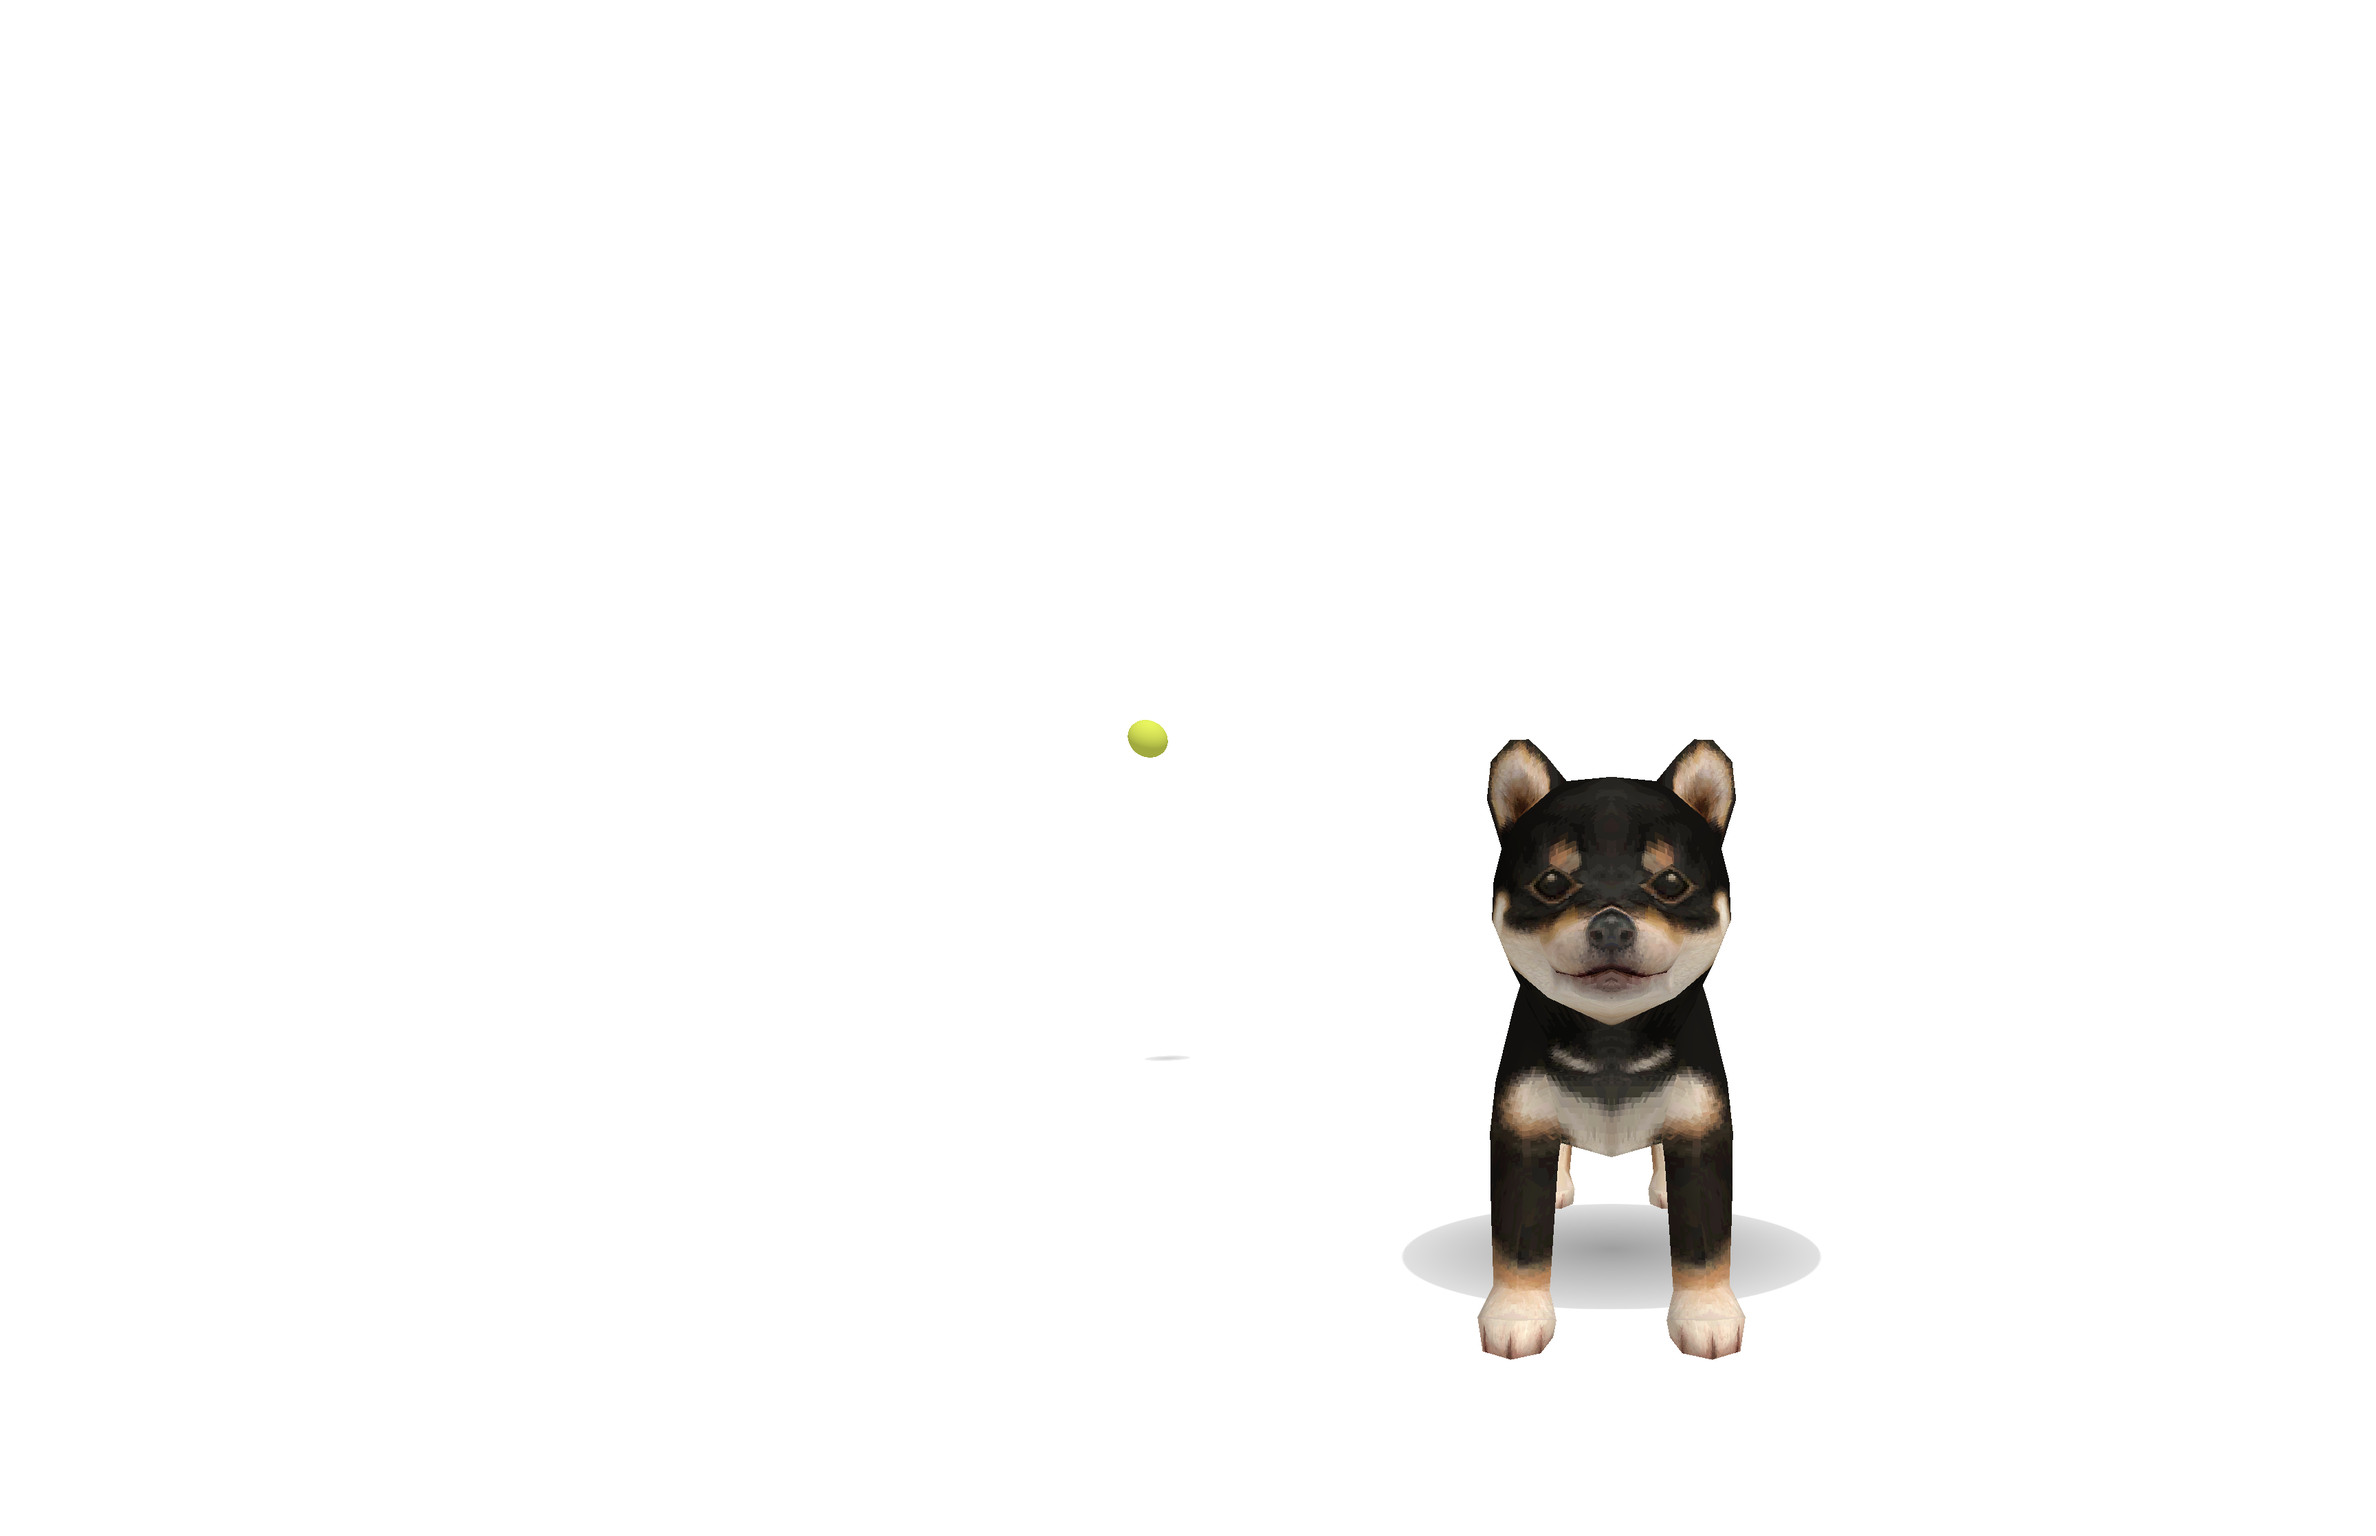
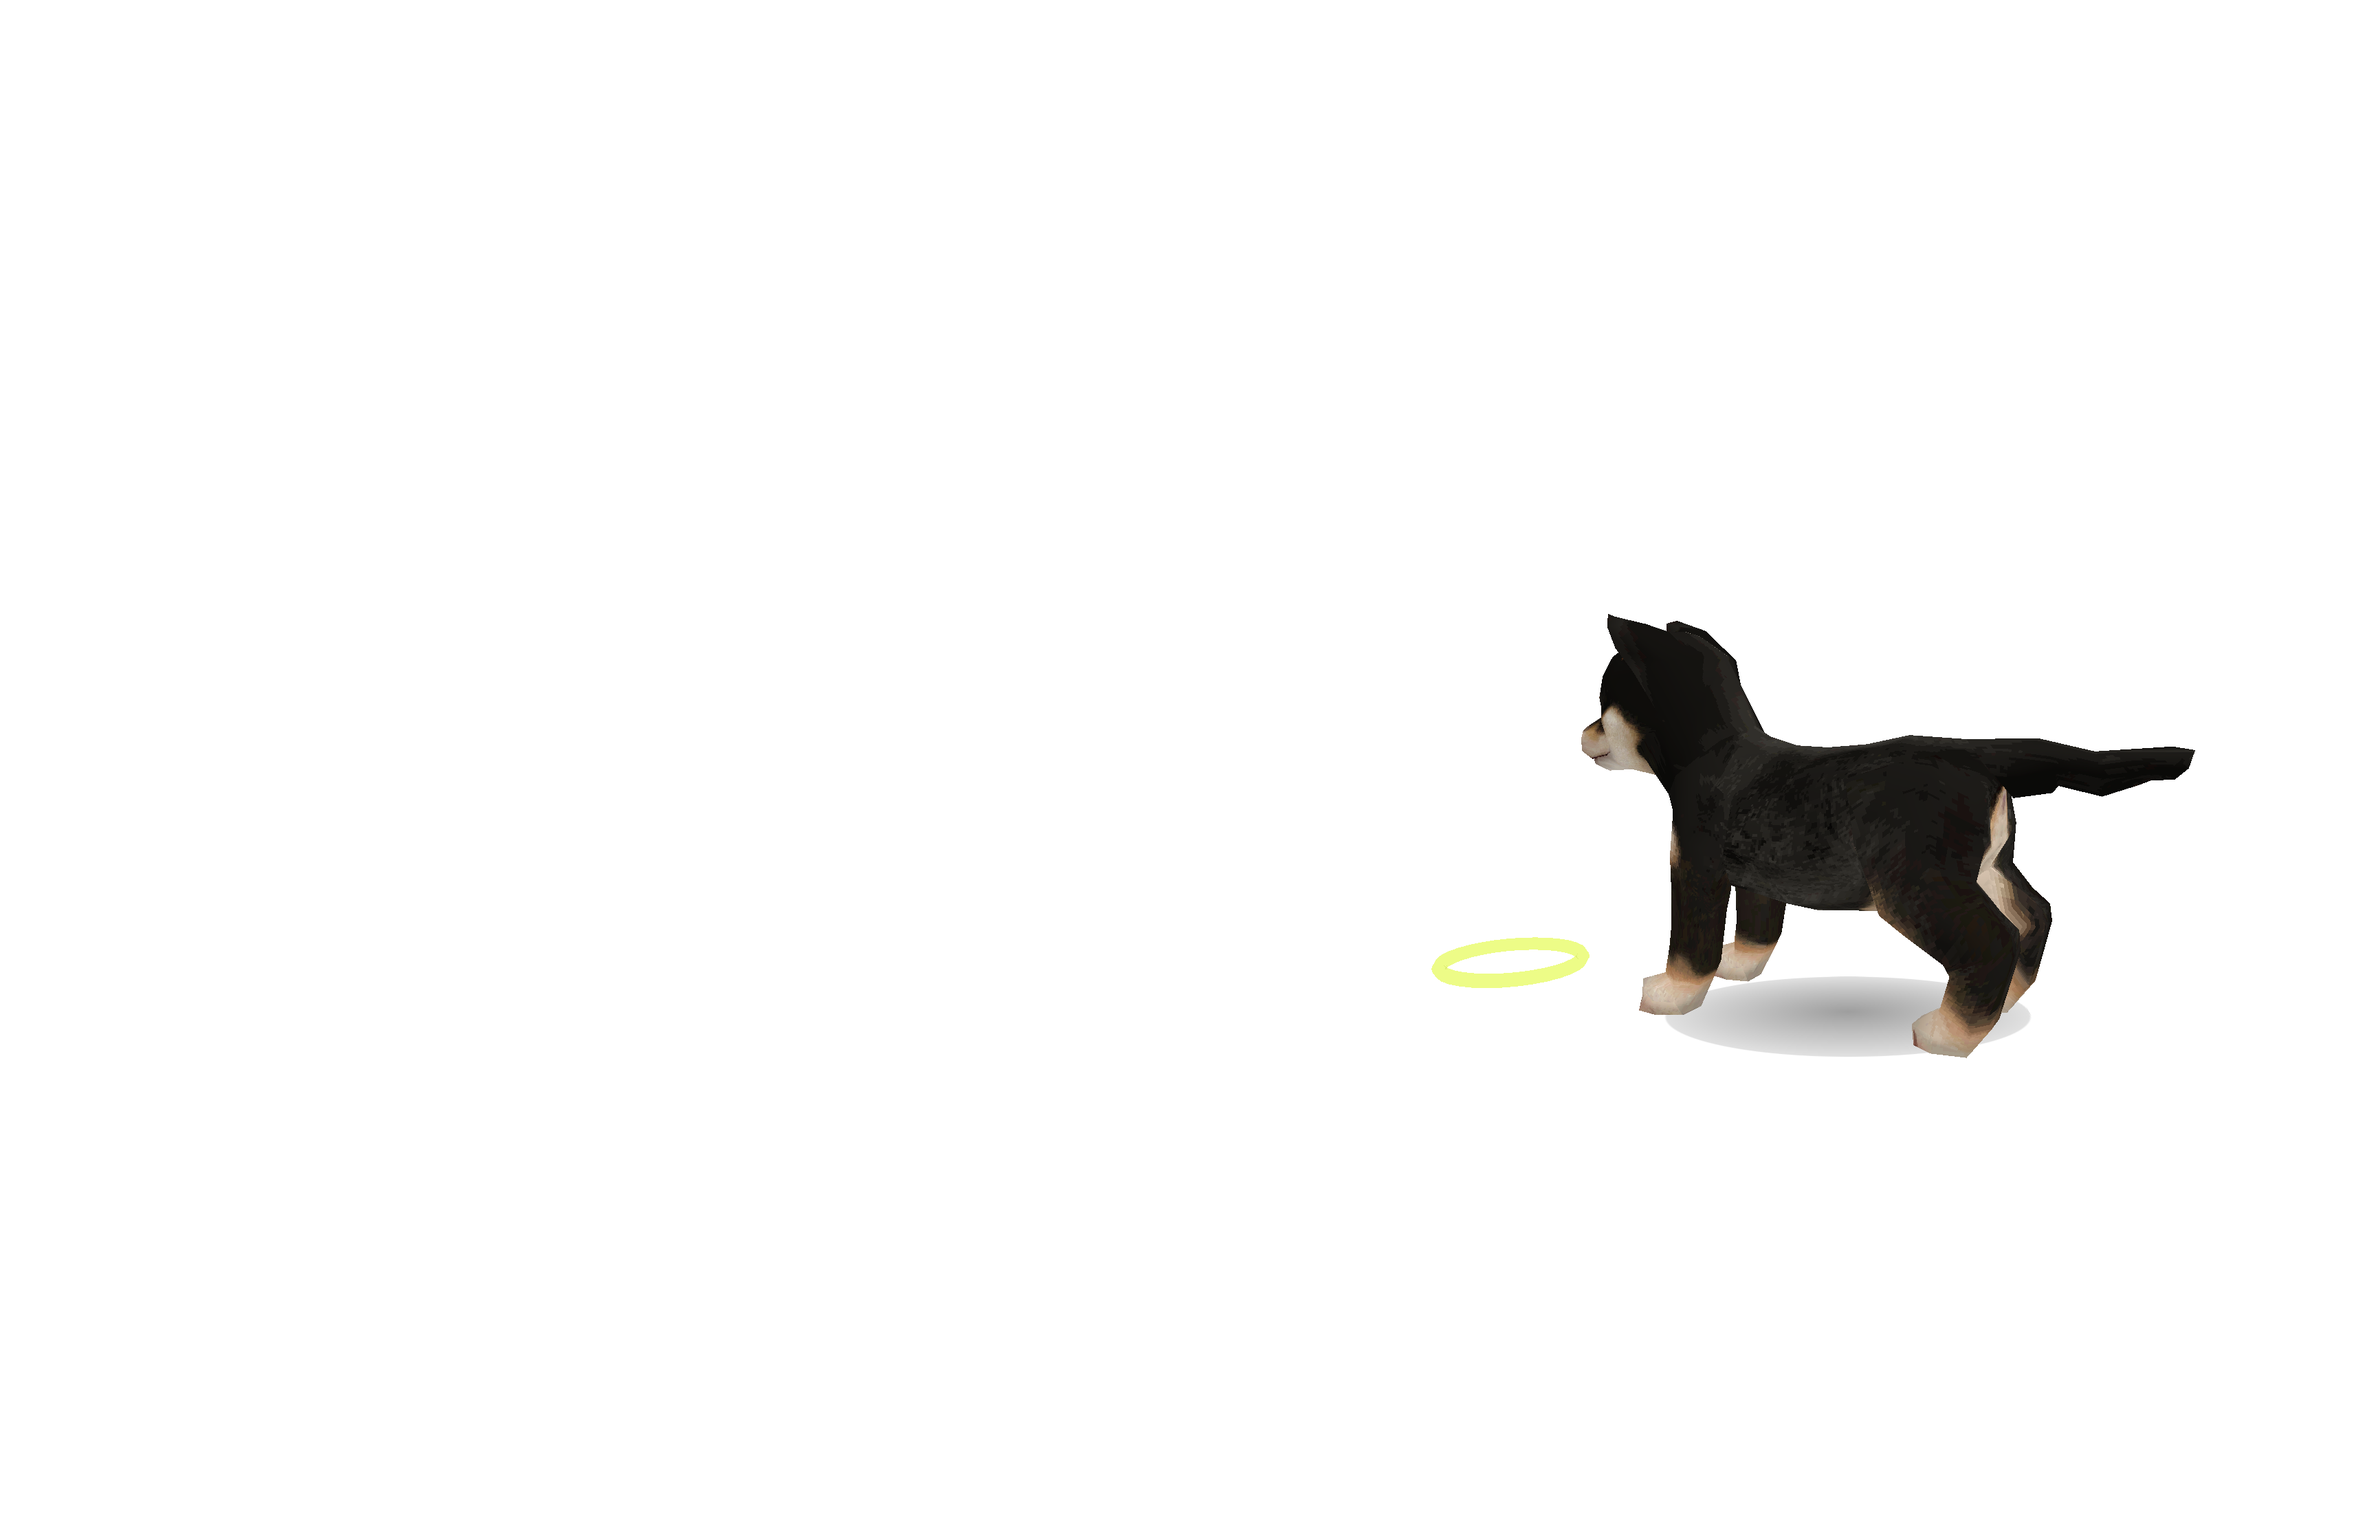
docs: document the optional-clip mechanism and refresh fetch screenshots
ANIMATION_CONTRACT.md gets an 'Optional clips' section: shiba_anticipate_loop
is requested but not yet authored, AnimationController.optionalClipNames
loads it best-effort so init never fails on a missing file, and dropping the
export in later needs no Mac-side change.

README documents the fetch-feel pass: the cursor-as-ball aim, the hand-rolled
BallFlight model and why it beats SceneKit physics here, the two direction
bugs the differential carry tests caught (the clamp margin that exceeded the
visible ground and collapsed every target to center, and the heading-relative
drop that could fling the ball off-panel), and the post-fix soak numbers.

fetch-throw.png and fetch-return.png replaced with current captures: the aim
ring and turned dog, and the ball carried in the mouth mid-return.

Changed region(s): [[0.5938, 0.4015, 0.9375, 0.8957], [0.4688, 0.4633, 0.5, 0.4942]]

diff --git a/README.md b/README.md
@@ -22,6 +22,10 @@ Build and logic checks cover all 24 clips changing bone transforms, deterministi
 
 A final 10-minute signed-app soak with the tray collapsed sampled `0.0%` CPU at 0, 5, and 10 minutes. RSS stayed between 120,896 and 120,976 KiB (118.1 MiB), below the 120 MiB gate. No permission prompt appeared during the mouse-only runtime session.
 
+**Fetch feel (2026-09-17):** the ball becomes the cursor while held, so aiming reads as holding and pointing rather than clicking a menu — a tennis-green ring on the ground marks where it will land, and the dog turns and gazes toward that spot the whole time. The throw is a hand-rolled ballistic model (`PetKit/BallFlight`), not SceneKit physics: first impact lands exactly on the aim point, then restitution, tangential drag and roll-out carry it 25-40% further before it settles, all on fixed 1/240s substeps so the predicted rest point is bit-for-bit the spot the rendered ball stops on. The dog leaves the moment the ball is thrown, chasing that predicted point and re-targeting live as the ball bounces, then carries it back toward wherever the cursor currently is and sets it down between itself and the camera. Two bugs surfaced and were fixed by differential runs (cursor pinned far left vs. far right, comparing measured pixel centers rather than eyeballing a single frame): a fixed screen-clamp margin that exceeded the visible ground near the camera and silently collapsed every return target to dead center, and a drop offset along the dog's own heading that could fling the ball off the panel edge when the cursor sat off-center. `AnimationController.optionalClipNames` lets a `shiba_anticipate_loop` excited-wag clip drop in later without a code change; until Blender ships it, aiming plays the existing `shiba_look_around_loop`. Evidence: `docs/screens/fetch-throw.png`, `fetch-return.png`.
+
+A follow-up idle soak (desktop-wide arena, six throw/return cycles) sampled `0.0%` CPU throughout. RSS settled at 123.4 MiB (126,352 KiB) after the first arena expansion and stayed flat across five further cycles (+16 to +136 KiB each, noise) — a one-time ~5 MiB step for the full-screen render target, not a leak, and 3.4 MiB over the 120 MiB gate.
+
 Blender 4.2.23 LTS on Windows successfully imports, authors and exports the rip. Blender 5.2.1 has no Collada import operator; use 4.2 LTS for animation work.
 
 The package includes rig, needs, persistence and animation regression tests for a toolchain with Swift Testing support; this machine's Command Line Tools cannot run them until the Xcode license/runtime issue is resolved.

diff --git a/docs/ANIMATION_CONTRACT.md b/docs/ANIMATION_CONTRACT.md
@@ -109,6 +109,14 @@ Locomotion is in-place; the app moves `skl_root`'s parent. Non-loop clips end on
 
 The second tier (`stand_from_sit` through `fetch_carry_loop`) uses a stricter **under 7°** limit on `tail1`, `neck`, `Lleg1`/`Rleg1`, and `Larm1`/`Rarm1`. Its non-loop entry and final poses are checked against the accepted state clips' first frames. Rebuild with `blender/author_clips.py -- --tier2` and verify with `blender/verify_clips.py -- --tier2` in Blender 4.2 LTS. See `blender/tier2_validation.json` and `blender/tier2_roundtrip_validation.json`; these authoring checks do not replace Mac playback review.
 
+## Optional clips (not required for `AnimationController.init` to succeed)
+
+| File | Loop | Notes |
+| --- | --- | --- |
+| `shiba_anticipate_loop.dae` | yes | **requested, not yet authored.** Standing, weight forward, head up and slightly tilted as if watching a held ball, fast tail wag, small weight shift; 1.5-2.5s, seamless, starts/ends in `shiba_idle_loop`'s standing pose, no root translation, all 28 joints keyed. Played while the ball is held during aim (R2-R4, `docs/plans/2026-09-17-fetch-feel-aim-bounce-anticipation-plan.md`). |
+
+`AnimationController.optionalClipNames` loads these best-effort: a missing or unparsable file is skipped rather than failing `init`, since the app must run before Windows authors them. `isClipLoaded(_:)` reports whether one landed; the Mac side picks a required-clip fallback when it hasn't (`shiba_look_around_loop` for `shiba_anticipate_loop`, in `App.anticipationClip(_:)`). Once exported, drop the file at `mac/Assets/shiba/clips/shiba_anticipate_loop.dae` — no Mac-side code change needed, the fallback stops firing automatically.
+
 ## Export settings (Blender 4.2 Collada)
 
 - Selection only: armature + mesh
